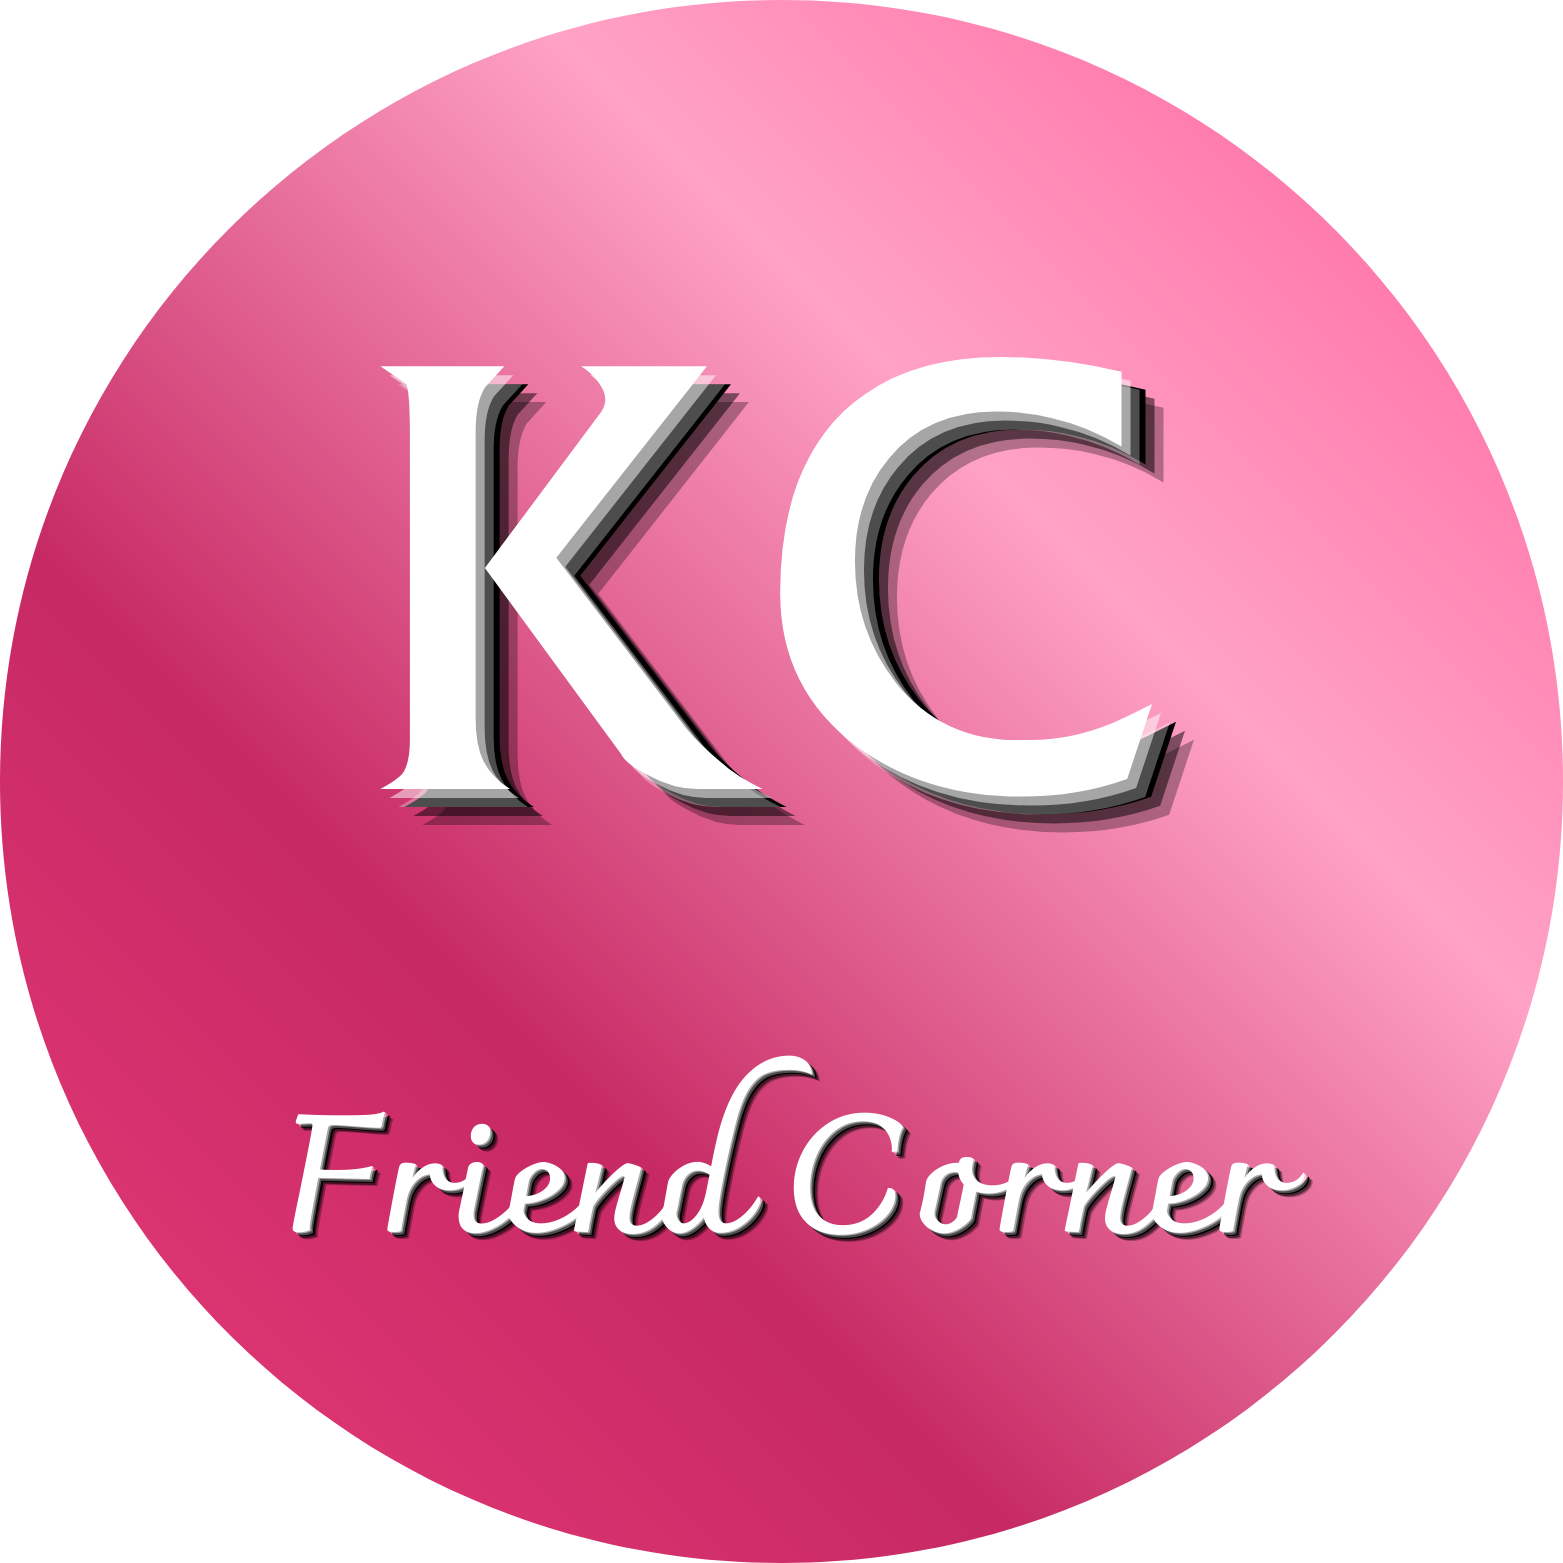
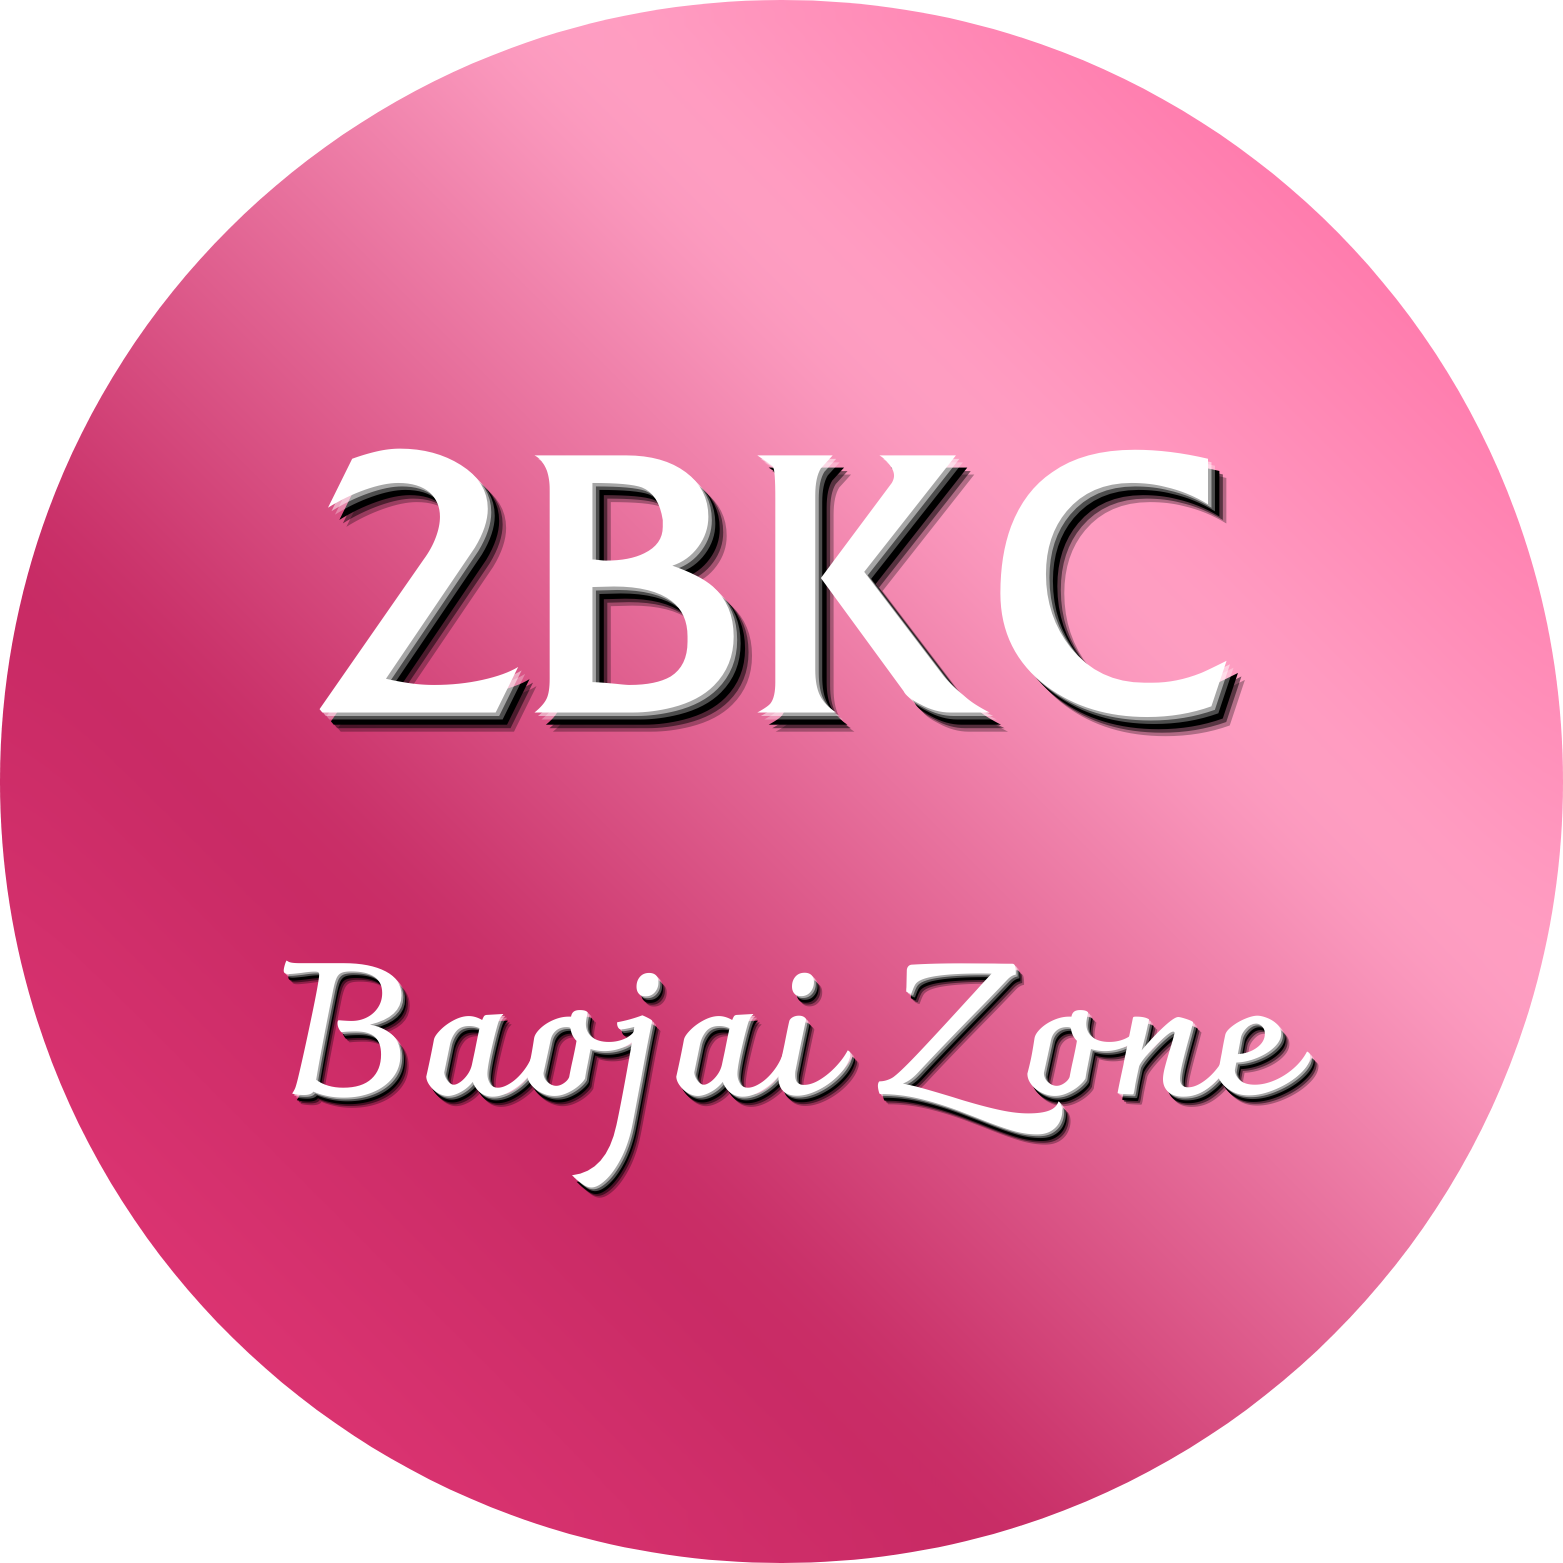
Add files via upload

Changed region(s): [[0.1843, 0.215, 0.7985, 0.5528], [0.1843, 0.6142, 0.8599, 0.7985]]

diff --git a/user.js b/user.js
@@ -219,7 +219,7 @@ window.showStartScreen = function () {
 
         userIdDisplay.style.display = 'block';
         userInfoArea.style.display = 'flex';
-        userIdDisplay.textContent = `รหัสผู้ใช้: ${currentUserId.substring(0, 7)}...`;
+        userIdDisplay.textContent = `รหัสผู้ใช้ ID: ${currentUserId.substring(0, 7)}...`;
 
     } else {
 
@@ -238,7 +238,7 @@ window.showStartScreen = function () {
 function showChatScreen() {
     hideAllScreens();
     chatScreen.style.display = 'flex';
-    chatTitle.textContent = `ห้องสนทนา: ${currentChatId ? currentChatId.substring(0, 8) : 'ใหม่'}...`;
+    chatTitle.textContent = `ห้องสนทนา ID: ${currentChatId ? currentChatId.substring(0, 8) : 'ใหม่'}...`;
 }
 
 /**
@@ -889,7 +889,7 @@ function sendMessage() {
 }
 
 function deleteMessage(chatId, messageId) {
-    if (!confirm("ต้องการยกเลิกการส่งหรือไม่?")) return;
+    if (!confirm("❗ต้องการยกเลิกการส่งหรือไม่?")) return;
 
     // 🔑 [SOFT DELETE]: อัปเดต 3 ฟิลด์สำคัญ: deleted: true, text: null, และ deletedAt
     database.ref(`${CHATS_PATH}/${chatId}/messages/${messageId}`).update({

diff --git a/index.html b/index.html
@@ -4,7 +4,7 @@
     <head>
         <meta charset="utf-8">
         <meta name="viewport" content="width=device-width, initial-scale=1.0">
-        <title>KC Friend Corner Anonymous-Chat</title>
+        <title>2BKC Baojai Zone</title>
 
         <link rel="icon" type="image/png" href="KCปก.png">
 
